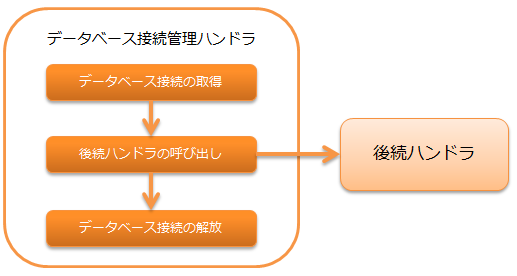
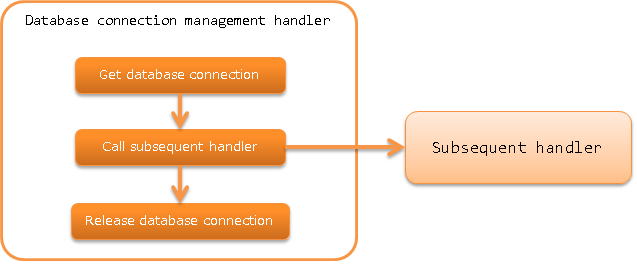
データベース接続管理ハンドラページを英語化

Changed region(s): [[0.0, 0.0, 1.0, 0.9962]]

diff --git a/en/application_framework/application_framework/handlers/common/database_connection_management_handler.rst b/en/application_framework/application_framework/handlers/common/database_connection_management_handler.rst
@@ -1,35 +1,35 @@
 .. _database_connection_management_handler:
 
-データベース接続管理ハンドラ
+Database Connection Management Handler
 ==================================================
 
-.. contents:: 目次
+.. contents:: Table of contents
   :depth: 3
   :local:
 
-後続のハンドラ及びライブラリで使用するためのデータベース接続を、スレッド上で管理するハンドラ。
+This handler manages the database connection on the thread for use by the subsequent handler and library.
 
-データベースアクセスの詳細は、 :ref:`database` を参照。
+For details of database access, see :ref:`database`.
 
 .. important::
 
-  このハンドラを使用する場合は、 :ref:`transaction_management_handler` をセットで設定すること。
-  トランザクション制御ハンドラが設定されていない場合、トランザクション制御が実施されないため後続で行ったデータベースへの変更は全て破棄される。
+  :ref:`transaction_management_handler` has to be configured to use this handle.
+  Since the transaction control is not implemented if the transaction control handler is not configured, all subsequent changes to the database will be discarded.
 
-本ハンドラでは、以下の処理を行う。
+This handler performs the following process.
 
-* データベース接続の取得
-* データベース接続の解放
+* Get a database connection
+* Release the database connection
 
-処理の流れは以下のとおり。
+The process flow is as follows.
 
 .. image:: ../images/DbConnectionManagementHandler/DbConnectionManagementHandler_flow.png
 
-ハンドラクラス名
+Handler class name
 --------------------------------------------------
 * :java:extdoc:`nablarch.common.handler.DbConnectionManagementHandler`
 
-モジュール一覧
+Module list
 --------------------------------------------------
 .. code-block:: xml
 
@@ -42,78 +42,80 @@
     <artifactId>nablarch-common-jdbc</artifactId>
   </dependency>
 
-制約
+Constraints
 ------------------------------
-なし。
+None.
 
-データベースの接続先の設定を行う
---------------------------------------------------
-このハンドラは、 :java:extdoc:`connectionFactory <nablarch.common.handler.DbConnectionManagementHandler.setConnectionFactory(nablarch.core.db.connection.ConnectionFactory)>`
-プロパティに設定されたファクトリクラス( :java:extdoc:`ConnectionFactory <nablarch.core.db.connection.ConnectionFactory>` 実装クラス )を使用してデータベース接続を取得する。
+Configure the connection destination of the database
+-------------------------------------------------------------
+This handler gets the database connection using the factory class (:java:extdoc:`ConnectionFactory <nablarch.core.db.connection.ConnectionFactory>` implementation class)
+configured in the :java:extdoc:`connectionFactory <nablarch.common.handler.DbConnectionManagementHandler.setConnectionFactory(nablarch.core.db.connection.ConnectionFactory)>` property.
 
-以下の設定ファイル例を参考にし、  :java:extdoc:`connectionFactory <nablarch.common.handler.DbConnectionManagementHandler.setConnectionFactory(nablarch.core.db.connection.ConnectionFactory)>`
-プロパティにファクトリクラスを設定すること。
+Refer to the following configuration file example to configure the factory class in the
+:java:extdoc:`connectionFactory <nablarch.common.handler.DbConnectionManagementHandler.setConnectionFactory(nablarch.core.db.connection.ConnectionFactory)>` property.
 
 .. code-block:: xml
 
-  <!-- データベース接続管理ハンドラ -->
+  <!-- Database connection management handler -->
   <component class="nablarch.common.handler.DbConnectionManagementHandler">
     <property name="connectionFactory" ref="connectionFactory" />
   </component>
 
-  <!-- データベース接続オブジェクトを取得するファクトリクラスの設定 -->
+  <!-- Configuration of the factory class that acquires the database connection object -->
   <component name="connectionFactory"
       class="nablarch.core.db.connection.BasicDbConnectionFactoryForDataSource">
-    <!-- プロパティの設定は省略 -->
+    <!-- Property configuration is omitted -->
   </component>
 
 .. important::
 
-  データベース接続オブジェクトを取得するためのファクトリクラスの詳細は、 :ref:`database-connect` を参照。
+  For details on the factory class to obtain the database connection object, see :ref:`database-connect`.
 
-アプリケーションで複数のデータベース接続（トランザクション）を使用する
+Use Multiple Database Connections (Transactions) in an Application
 ----------------------------------------------------------------------------------------------------
-1つのアプリケーションで複数のデータベース接続が必要となるケースが考えられる。
-この場合は、このハンドラをハンドラキュー上に複数設定することで対応する。
+There may be cases where one application requires multiple database connections.
+In this case, multiple handlers are configured on the handler queue to manage the situation.
 
-このハンドラは、データベース接続オブジェクトをスレッド上で管理する際に、データベース接続名をつけて管理している。
-データベース接続名は、スレッド内で一意とする必要がある。
+This handler manages the database connection object on the thread with a database connection name.
+Database connection names in a thread must be unique.
 
-データベース接続名は、このハンドラの :java:extdoc:`connectionName <nablarch.common.handler.DbConnectionManagementHandler.setConnectionName(java.lang.String)>` プロパティに設定する。
-:java:extdoc:`connectionName <nablarch.common.handler.DbConnectionManagementHandler.setConnectionName(java.lang.String)>` への設定を省略した場合、その接続はデフォルトのデータベース接続となり簡易的に利用できる。
-このため、最もよく使うデータベース接続をデフォルトとし、それ以外のデータベース接続に対して任意の名前をつけると良い。
+The database connection name is configured in the :java:extdoc:`connectionName <nablarch.common.handler.DbConnectionManagementHandler.setConnectionName(java.lang.String)>`
+property of this handler. If the configuration to
+:java:extdoc:`connectionName <nablarch.common.handler.DbConnectionManagementHandler.setConnectionName(java.lang.String)>` is omitted,
+this connection will become the default database connection and can be used easily.
+For this reason, configure the most frequently used database connection as the default, and assign arbitrary names to other database connections.
 
-以下にデータベース接続名の設定例を示す。
+A configuration example for the database connection name is shown below.
 
 .. code-block:: xml
 
-  <!-- データベース接続を取得するファクトリの設定は省略 -->
+  <!-- Factory configuration to get the database connection is omitted -->
 
-  <!-- デフォルトのデータベース接続を設定 -->
+  <!-- Configure the default database connection  -->
   <component class="nablarch.common.handler.DbConnectionManagementHandler">
     <property name="connectionFactory" ref="connectionFactory" />
   </component>
 
-  <!-- userAccessLogという名前でデータベース接続を登録 -->
+  <!-- Register the database connection with the name userAccessLog -->
   <component class="nablarch.common.handler.DbConnectionManagementHandler">
     <property name="connectionFactory" ref="userAccessLogConnectionFactory" />
     <property name="connectionName" value="userAccessLog" />
   </component>
 
-上記のハンドラ設定の場合の、アプリケーションからのデータベースアクセス例を以下に示す。
-なお、データベースアクセス部品の詳細な使用方法は、 :ref:`database` を参照。
+The following is an example of database access from an application with the handler settings mentioned above.
+For details on how to use the database access components, see :ref:`database`.
 
-デフォルトのデータベース接続を使用する
-  :java:extdoc:`DbConnection#getConnection <nablarch.core.db.connection.DbConnectionContext.getConnection()>` 呼び出し時に引数を指定する必要が無い。
-  引数を指定しないと、自動的にデフォルトのデータベース接続が戻される。
+Use the default database connection
+  An argument is not required to be specified when calling :java:extdoc:`DbConnection#getConnection <nablarch.core.db.connection.DbConnectionContext.getConnection()>`.
+  If an argument is not specified, the default database connection is returned automatically.
 
   .. code-block:: java
 
     AppDbConnection connection = DbConnectionContext.getConnection();
 
-userAccessLogデータベース接続を使用する
-  :java:extdoc:`DbConnection#getConnection(String) <nablarch.core.db.connection.DbConnectionContext.getConnection(java.lang.String)>` を使用し、引数にデータベース接続名を指定する。
-  データベース接続名は :java:extdoc:`connectionName <nablarch.common.handler.DbConnectionManagementHandler.setConnectionName(java.lang.String)>` プロパティに設定した値と一致させる必要がある。
+Use the userAccessLog database connection
+  Use :java:extdoc:`DbConnection#getConnection(String) <nablarch.core.db.connection.DbConnectionContext.getConnection(java.lang.String)>` and specify the database connection name in the argument.
+  The database connection name must match the value configured in the :java:extdoc:`connectionName <nablarch.common.handler.DbConnectionManagementHandler.setConnectionName(java.lang.String)>` property.
 
   .. code-block:: java
 
